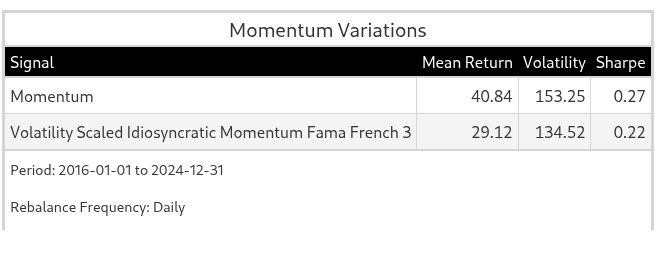
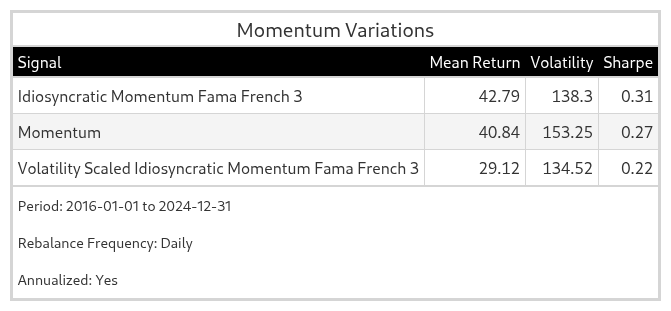
Finished experiment 3.

Changed region(s): [[0.0, 0.0291, 1.0, 0.9891]]

diff --git a/research/experiments/experiment_3.py b/research/experiments/experiment_3.py
@@ -13,7 +13,7 @@ annualize_results = True
 
 signal_names = [
     "momentum",
-    # "idiosyncratic_momentum_fama_french_3",
+    "idiosyncratic_momentum_fama_french_3",
     "volatility_scaled_idiosyncratic_momentum_fama_french_3",
 ]
 
@@ -61,7 +61,7 @@ for signal_name in signal_names:
 
 print("Combining results...")
 all_returns = pl.concat(returns_list)
-print(all_returns)
+
 annual_factor = 1
 match rebalance_frequency:
     case "monthly":
@@ -118,7 +118,6 @@ cumulative_returns = (
     .with_columns(pl.col("return").log1p().cum_sum().mul(100).over("signal"))
     .rename({"date": "Date", "return": "Return", "signal": "Signal"})
 )
-print(cumulative_returns)
 
 plt.figure(figsize=(10, 6))
 
